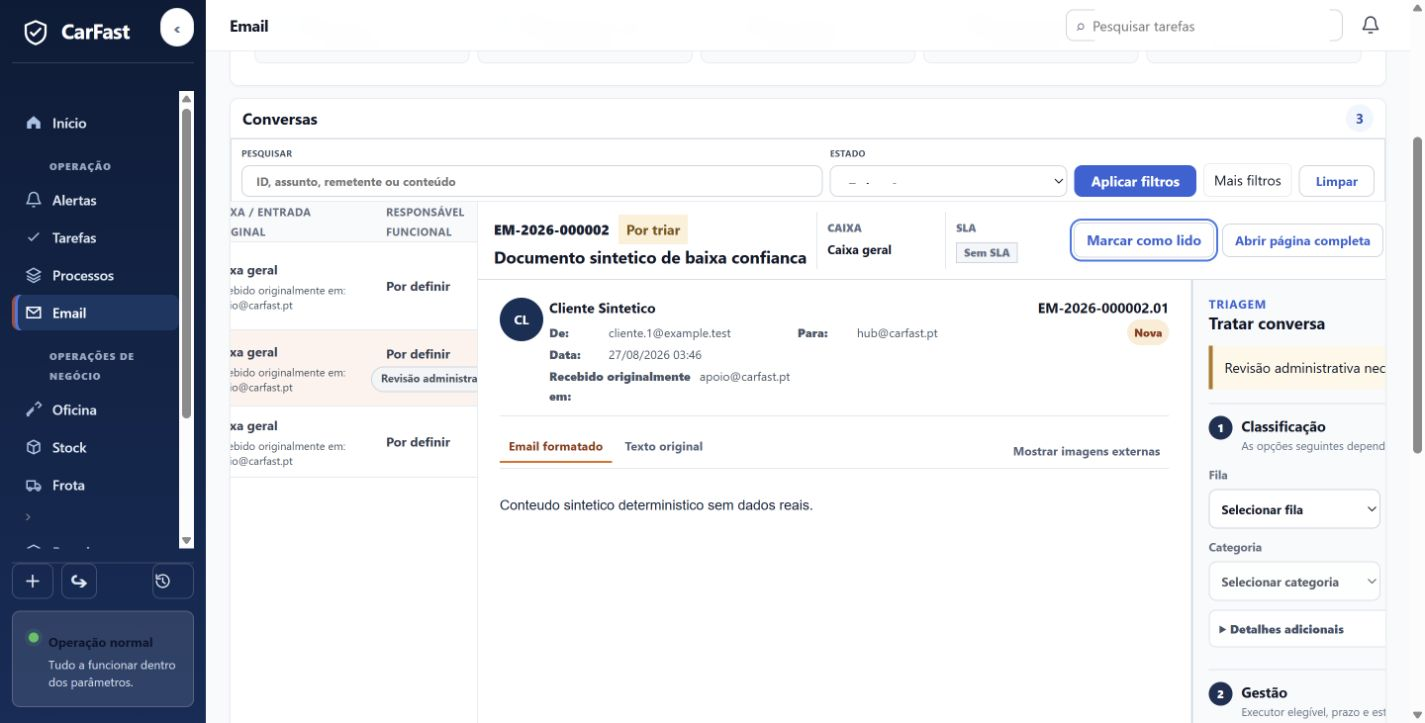
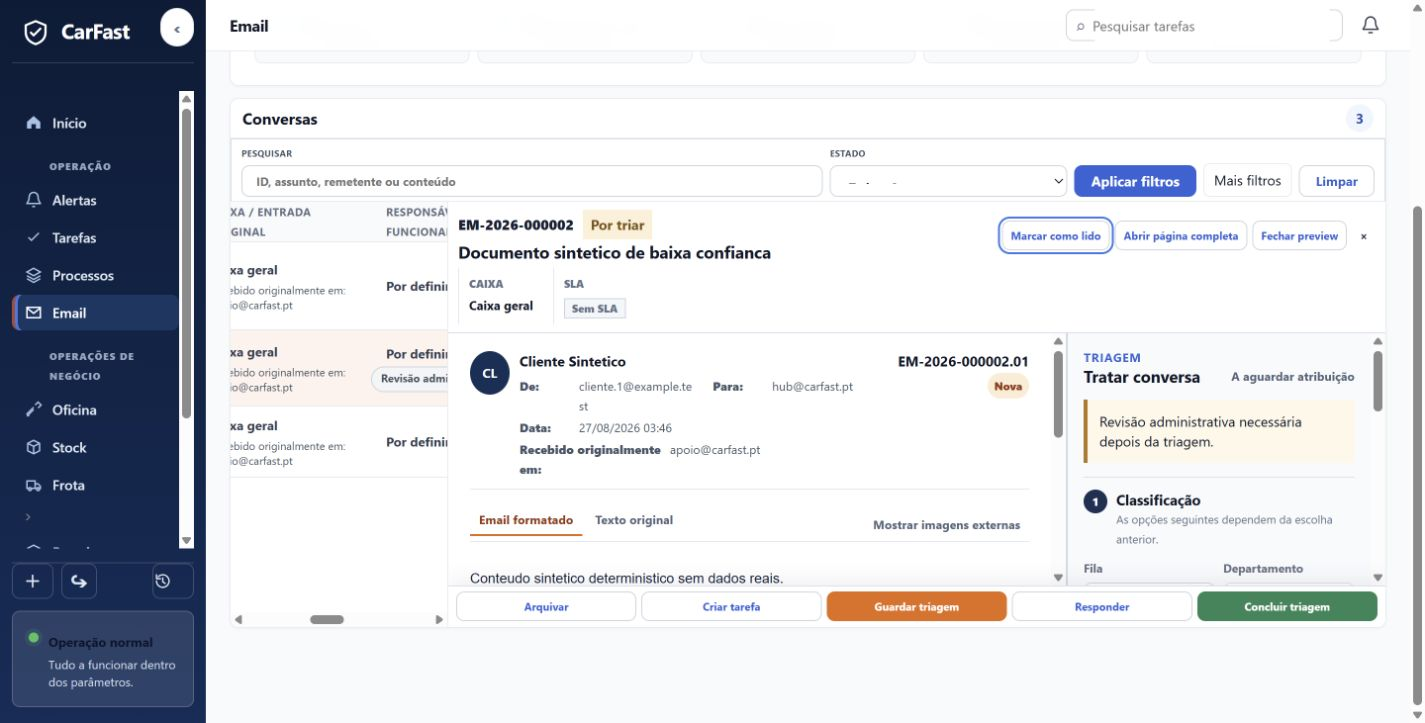
fix(front-a): close security and workspace review gaps

diff --git a/app/static/css/ui-contract-v1.css b/app/static/css/ui-contract-v1.css
@@ -39,7 +39,7 @@
   .ui-contract-v1 .visual-document-grid:not(.is-preview-open) { grid-template-columns: minmax(0,1fr); }
   .ui-contract-v1 .ui-email-list-preview { grid-template-columns: minmax(0,1fr); }
   .ui-contract-v1 .ui-email-list-preview:not(.is-preview-open) > #email-preview-panel { display: none; }
-  .ui-contract-v1 .ui-email-list-preview.is-preview-open { grid-template-columns: 250px minmax(0,1fr); }
+  .ui-contract-v1 .ui-email-list-preview.is-preview-open { grid-template-columns: 220px minmax(0,1fr); }
 }
 
 .ui-contract-v1 .visual-topbar { height: 52px; min-height: 52px; }
@@ -159,6 +159,17 @@
 .ui-contract-v1 .ui-email-list-preview { display: grid; grid-template-columns: minmax(0,2fr) minmax(300px,1fr); min-height: 430px; }
 .ui-contract-v1 .ui-email-list-preview > .visual-email-table-wrap { min-width: 0; border-right: 1px solid var(--ui-color-border); }
 .ui-contract-v1 .ui-context-preview { position: static; inset: auto; box-sizing: border-box; width: 100%; max-width: none; height: 100%; max-height: none; margin: 0; padding: 0; border: 0; border-radius: 0; background: var(--ui-color-surface); }
+.ui-contract-v1 .ui-context-preview * { min-width: 0; max-width: 100%; box-sizing: border-box; }
+.ui-contract-v1 .ui-context-preview .email-modal-shell { width:100%; height:430px; max-height:430px; overflow:hidden; }
+.ui-contract-v1 .ui-context-preview .email-modal-header { display:grid; grid-template-columns:minmax(0,1fr) auto; min-height:64px; padding:8px 10px; gap:6px; }
+.ui-contract-v1 .ui-context-preview .email-header-facts { grid-column:1/-1; grid-row:2; }
+.ui-contract-v1 .ui-context-preview .email-header-actions { display:flex; grid-column:2; grid-row:1; gap:5px; justify-content:flex-end; }
+.ui-contract-v1 .ui-context-preview .email-header-actions :is(button,.button-link) { min-height:30px; height:30px; padding:5px 8px; font-size:11px; }
+.ui-contract-v1 .ui-context-preview .email-reader-grid { grid-template-columns:minmax(0,1.65fr) minmax(280px,.85fr); min-height:0; overflow:hidden; }
+.ui-contract-v1 .ui-context-preview .email-conversation,
+.ui-contract-v1 .ui-context-preview .email-triage-pane { min-height:0; overflow:auto; }
+.ui-contract-v1 .ui-context-preview .email-modal-footer { position:sticky; z-index:4; bottom:0; display:flex; min-height:42px; gap:5px; padding:5px 8px; background:var(--ui-color-surface); }
+.ui-contract-v1 .ui-context-preview .email-modal-footer :is(button,.button-link) { min-height:30px; height:30px; padding:5px 8px; font-size:11px; }
 .ui-contract-v1 .ui-context-preview::backdrop { display: none; }
 .ui-contract-v1 .ui-context-preview .email-preview-loading { display: grid; min-height: 100%; padding: 24px; place-content: center; gap: 6px; color: var(--ui-color-text-muted); text-align: center; }
 
@@ -169,6 +180,7 @@
 
 .ui-contract-v1 .clean-admin-directory,
 .ui-contract-v1 .clean-admin-residual-nav { margin: 0; }
+.ui-contract-v1 .clean-admin-content { height:100vh; max-height:100vh; overflow:hidden; }
 .ui-contract-v1 .admin-model-workbench { padding: 0; overflow: hidden; }
 .ui-contract-v1 .admin-model-workbench > .table-heading { min-height: 52px; padding: 8px 12px; }
 .ui-contract-v1 .admin-model-columns { display: grid; grid-template-columns: minmax(190px,.7fr) minmax(190px,.7fr) minmax(320px,1.4fr); min-height: 440px; gap: 0; }
@@ -230,13 +242,13 @@
 .ui-contract-v1 .email-secondary-filters > summary { display:flex; min-height:32px; padding:6px 10px; align-items:center; border:1px solid var(--ui-color-border); border-radius:6px; cursor:pointer; list-style:none; white-space:nowrap; }
 .ui-contract-v1 .email-secondary-filters > div { position:absolute; z-index:30; top:36px; right:0; display:grid; width:280px; gap:8px; padding:10px; border:1px solid var(--ui-color-border); border-radius:8px; background:var(--ui-color-surface); box-shadow:0 10px 28px rgba(15,23,42,.16); }
 .ui-contract-v1 .clean-admin-header { padding:8px 12px; }
-.ui-contract-v1 .clean-admin-master-detail { display:grid; grid-template-columns:210px minmax(0,1fr); gap:12px; min-width:0; align-items:start; }
+.ui-contract-v1 .clean-admin-master-detail { display:grid; grid-template-columns:210px minmax(0,1fr); gap:12px; min-width:0; max-height:calc(100vh - 175px); overflow:hidden; align-items:start; }
 .ui-contract-v1 .clean-admin-master { position:sticky; top:8px; display:grid; gap:8px; padding:10px; border:1px solid var(--ui-color-border); border-radius:8px; background:var(--ui-color-surface); }
 .ui-contract-v1 .clean-admin-master nav { display:grid; gap:2px; }
 .ui-contract-v1 .clean-admin-master a { min-height:32px; padding:7px 9px; border-radius:6px; color:var(--ui-color-text); text-decoration:none; font-size:12px; font-weight:700; white-space:nowrap; }
 .ui-contract-v1 .clean-admin-master a:is(:hover,.active) { background:var(--ui-color-surface-muted); color:var(--ui-color-primary); }
 .ui-contract-v1 .clean-admin-master small { color:var(--ui-color-text-muted); line-height:1.35; }
-.ui-contract-v1 .clean-admin-detail { display:grid; min-width:0; gap:12px; }
+.ui-contract-v1 .clean-admin-detail { display:grid; min-width:0; max-height:calc(100vh - 175px); overflow:auto; gap:12px; align-content:start; }
 .ui-contract-v1 .clean-admin-detail > .clean-card-wide { width:100%; min-width:0; }
 .ui-contract-v1 .clean-admin-overview-strip { grid-template-columns:repeat(3,minmax(0,1fr)); }
 

diff --git a/app/templates/clean_documentation_triage.html b/app/templates/clean_documentation_triage.html
@@ -98,7 +98,7 @@
                         </select>
                       </label>
                       <label>Justificação<input name="decision_reason" placeholder="Motivo da decisão"></label>
-                      <div class="visual-document-actions"><a class="button-link secondary-link" href="{{ selected_row.detail_href }}">Ver auditoria</a><button type="submit">Guardar decisão</button></div>
+                      <div class="visual-document-actions"><a class="button-link secondary-link" href="{{ selected_row.detail_href }}">Ver auditoria</a><button type="submit" name="action" value="save">Guardar</button><button type="submit" name="action" value="validate">Validar</button><button type="submit" name="action" value="archive">Arquivar</button></div>
             </form>
           </section>
         {% else %}<p class="doc-arch-empty">Sem documento selecionado.</p>{% endif %}

diff --git a/app/web/router.py b/app/web/router.py
@@ -13903,6 +13903,7 @@ def clean_documentation_triage(
 def clean_documentation_triage_decide(
     request: Request,
     document_id: int,
+    action: str = Form("save"),
     destination: str = Form(...),
     decision_reason: str = Form(""),
     invoice_nature: str = Form("por_classificar"),
@@ -13934,11 +13935,31 @@ def clean_documentation_triage_decide(
     if not can_manage_documentation(request):
         return triage_redirect(error="permission")
     user_id = get_web_user_id(request)
+    clean_action = action.strip().lower()
+    if clean_action not in {"save", "validate", "archive"}:
+        return triage_redirect(error="action_not_supported")
     clean_destination = destination.strip().lower()
     with SessionLocal() as db:
         document = db.get(Document, document_id)
         if not document:
             return triage_redirect(error="missing")
+        state = get_or_create_workflow_state(db, document)
+        compatible, reason_code = document_action_compatibility(
+            document,
+            state,
+            action={"save": "classify", "validate": "validate", "archive": "archive"}[
+                clean_action
+            ],
+            invoice_nature=invoice_nature,
+            plate=document.plate or "",
+            reason=decision_reason,
+            saved_service_count=service_count(db, document.id),
+        )
+        if not compatible:
+            db.rollback()
+            return triage_redirect(error=reason_code)
+        if clean_action == "archive":
+            clean_destination = "archive"
         if clean_destination == "invoices":
             try:
                 classify_invoice_nature(
@@ -13967,13 +13988,21 @@ def clean_documentation_triage_decide(
                 return triage_redirect(error="destination")
             document.document_type, document.classification = target_types[clean_destination]
             needs_extraction = clean_destination == "diagnostics"
-            document.status = "pending_extraction" if needs_extraction else "archived"
+            document.status = (
+                "archived"
+                if clean_action == "archive"
+                else "validated"
+                if clean_action == "validate"
+                else "pending_extraction"
+                if needs_extraction
+                else "classified"
+            )
             if needs_extraction:
                 profile = ensure_diagnostic_profile(db, document)
                 profile.diagnostic_status = "processing"
                 profile.ocr_status = "pending"
                 profile.validation_status = "pending"
-            if clean_destination == "archive":
+            if clean_action == "archive":
                 document.archived = True
                 document.archived_at = document.archived_at or datetime.now(UTC)
                 document.archived_by_id = user_id
@@ -13985,9 +14014,27 @@ def clean_documentation_triage_decide(
                 ingestion_status="completed",
                 association_status="associated" if document.vehicle_id else "unassociated",
                 extraction_status="queued" if needs_extraction else "not_requested",
-                validation_status="pending" if needs_extraction else "human_validated",
+                validation_status=(
+                    "human_validated"
+                    if clean_action in {"validate", "archive"}
+                    else state.validation_status
+                ),
                 destination_status=clean_destination,
             )
+        if clean_action in {"validate", "archive"} and clean_destination == "invoices":
+            transition_document_workflow(
+                db,
+                document=document,
+                user_id=user_id,
+                reason=decision_reason or "Validação manual na Triagem",
+                validation_status="human_validated",
+                destination_status="archive" if clean_action == "archive" else "invoices",
+            )
+            document.status = "archived" if clean_action == "archive" else "validated"
+            if clean_action == "archive":
+                document.archived = True
+                document.archived_at = document.archived_at or datetime.now(UTC)
+                document.archived_by_id = user_id
         db.commit()
     return triage_redirect(saved="1")
 

diff --git a/tests/test_clean_documentation_architecture.py b/tests/test_clean_documentation_architecture.py
@@ -688,6 +688,38 @@ def test_triage_decision_preserves_filters_and_queues_diagnostic_extraction(
     assert workflow.destination_status == "diagnostics"
 
 
+def test_triage_uses_server_contract_and_exposes_separate_save_validate_archive(
+    authenticated_client, db_session, monkeypatch
+):
+    monkeypatch.setattr(settings, "visual_foundation_enabled", True)
+    document = _triage_document(801)
+    db_session.add(document)
+    db_session.commit()
+    calls: list[str] = []
+
+    def reject_by_contract(_document, _state, *, action, **_kwargs):
+        calls.append(action)
+        return False, "contract_blocked"
+
+    monkeypatch.setattr(web_router, "document_action_compatibility", reject_by_contract)
+    page = authenticated_client.get(
+        f"/v2-clean/documentation/triage?selected={document.id}&view=preview"
+    )
+    response = authenticated_client.post(
+        f"/v2-clean/documentation/triage/{document.id}",
+        data={"destination": "archive", "action": "archive"},
+        follow_redirects=False,
+    )
+
+    assert 'name="action" value="save">Guardar' in page.text
+    assert 'name="action" value="validate">Validar' in page.text
+    assert 'name="action" value="archive">Arquivar' in page.text
+    assert calls == ["archive"]
+    assert "error=contract_blocked" in response.headers["location"]
+    db_session.refresh(document)
+    assert document.archived is False
+
+
 def test_triage_rejects_invalid_invoice_nature_without_server_error(
     authenticated_client,
     db_session,

diff --git a/tests/test_foundation_api.py b/tests/test_foundation_api.py
@@ -44,32 +44,28 @@ def test_foundation_endpoints_return_seed_data():
         assert health.json()["status"] == "ok"
 
         units = client.get("/organization/units")
-        assert units.status_code == 200
-        unit_codes = {item["code"] for item in units.json()}
-        assert {"carfast", "fleet", "workshop"}.issubset(unit_codes)
+        assert units.status_code == 401
 
         roles = client.get("/admin/roles")
         assert roles.status_code == 401
 
         catalogs = client.get("/settings/catalogs")
-        assert catalogs.status_code == 200
-        catalog_codes = {item["code"] for item in catalogs.json()}
-        assert "vehicle_lifecycle_status" in catalog_codes
+        assert catalogs.status_code == 401
+
+        inventory = client.get("/api/stock/inventory-sessions/1")
+        assert inventory.status_code == 401
 
 
 def test_admin_write_endpoints_require_authentication():
     with build_test_db():
         client = TestClient(app)
 
-        units = client.get("/organization/units").json()
-        fleet_id = next(item["id"] for item in units if item["code"] == "fleet")
-
         team_response = client.post(
             "/organization/teams",
             json={
                 "code": "fleet_followup",
                 "name": "Follow-up Frota",
-                "organizational_unit_id": fleet_id,
+                "organizational_unit_id": 1,
                 "active": True,
             },
         )

diff --git a/app/api/routes/settings.py b/app/api/routes/settings.py
@@ -18,10 +18,11 @@ from app.services.audit import record_audit
 
 router = APIRouter(prefix="/settings")
 SettingsManager = Annotated[object, Depends(require_permission("settings.manage"))]
+SettingsReader = Annotated[object, Depends(require_permission("admin.settings.read"))]
 
 
 @router.get("/catalogs", response_model=list[SettingsCatalogRead])
-def list_catalogs(db: DbSession, include_inactive: bool = False):
+def list_catalogs(db: DbSession, _: SettingsReader, include_inactive: bool = False):
     stmt = select(SettingsCatalog).order_by(SettingsCatalog.name)
     if not include_inactive:
         stmt = stmt.where(SettingsCatalog.active.is_(True))
@@ -82,7 +83,12 @@ def update_catalog(
 
 
 @router.get("/catalogs/{catalog_code}/values", response_model=list[SettingsValueRead])
-def list_catalog_values(catalog_code: str, db: DbSession, include_inactive: bool = False):
+def list_catalog_values(
+    catalog_code: str,
+    db: DbSession,
+    _: SettingsReader,
+    include_inactive: bool = False,
+):
     catalog = db.scalar(select(SettingsCatalog).where(SettingsCatalog.code == catalog_code))
     if not catalog:
         raise HTTPException(status_code=404, detail="Catalog not found.")

diff --git a/app/api/routes/organization.py b/app/api/routes/organization.py
@@ -18,10 +18,15 @@ from app.services.audit import record_audit
 
 router = APIRouter(prefix="/organization")
 SettingsManager = Annotated[object, Depends(require_permission("settings.manage"))]
+OrganizationReader = Annotated[
+    object, Depends(require_permission("admin.organization.read"))
+]
 
 
 @router.get("/units", response_model=list[OrganizationalUnitRead])
-def list_organizational_units(db: DbSession, include_inactive: bool = False):
+def list_organizational_units(
+    db: DbSession, _: OrganizationReader, include_inactive: bool = False
+):
     stmt = select(OrganizationalUnit).order_by(
         OrganizationalUnit.sort_order,
         OrganizationalUnit.name,
@@ -102,7 +107,7 @@ def update_organizational_unit(
 
 
 @router.get("/teams", response_model=list[TeamRead])
-def list_teams(db: DbSession, include_inactive: bool = False):
+def list_teams(db: DbSession, _: OrganizationReader, include_inactive: bool = False):
     stmt = select(Team).order_by(Team.name)
     if not include_inactive:
         stmt = stmt.where(Team.active.is_(True))

diff --git a/docs/evidence/front-a-preview-no-go-fix/EVIDENCE.md b/docs/evidence/front-a-preview-no-go-fix/EVIDENCE.md
@@ -23,8 +23,12 @@ Data: 2026-08-27. Candidato: `codex/front-a-preview-no-go-fix`, derivado de `e8d
 - `email-triage-1440x731.png`
 - `email-response-pending-1440x731.png`
 - `email-low-confidence-1440x731.png`
+- `administration-users-editor-first-fold-1440x731.png`
+- `tasks-positive-fixture-1440x731.png`
+- `processes-positive-fixture-1440x731.png`
+- `GEOMETRY_1440x731.json`
 
-As medições DOM confirmaram ausência de overflow horizontal global nas cinco vistas. Email lista apresentou 3 linhas; a seleção manteve as 3 linhas acessíveis e abriu o painel amplo de triagem, validação e resposta na mesma página. Documentação manteve 3 itens na fila e provou baixa confiança, validado e bloqueado com preview e decisão no mesmo contexto. Breadcrumb e kicker duplicados foram removidos transversalmente na fundação visual.
+As medições DOM inspecionaram todos os descendentes visíveis, não apenas `body.scrollWidth`. Email termina em x=1400 e a ActionBar fica visível entre y=592–634. Administração mede 731px de altura total e usa scroll interno no detalhe. Documentação mantém 3 itens na fila, consulta `document_action_compatibility` e separa Guardar → Validar → Arquivar. Fixtures positivas de Tarefas e Processos foram renderizadas no candidato.
 
 ## Matriz binária
 
@@ -46,6 +50,8 @@ Comando focado/regressão Front A:
 
 `python -m pytest -q tests/test_email_triage_preview.py tests/test_clean_admin.py tests/test_front_a_fur_desktop_gate.py tests/test_clean_workshop_v2_flow.py tests/test_navigation_rbac.py tests/test_clean_documentation_architecture.py`
 
-Resultado: **115 passed**, 5 warnings deprecatórias SWIG, zero falhas.
+Resultado: **128 passed**, 5 warnings deprecatórias SWIG, zero falhas. A regressão inclui os cinco perfis/scopes operacionais exercitados pelos testes de navegação, Tarefas e Processos: administrador sem execução implícita, executor, coordenador de equipa, coordenador operacional e gestor com exceção auditada.
 
 As revisões independentes detetaram lacunas P1 em save de fase adversarial e nos percursos enviar/aprovar com outbound OFF. Todas foram corrigidas com rejeição anterior à mutação e cobertas por testes negativos antes da revisão final.
+
+O reclose corrigiu ainda GET públicos de organização/configuração, confirmou autenticação do inventário, removeu rotas fantasma do percurso validado e acrescentou testes de contrato próprios para estas superfícies.
